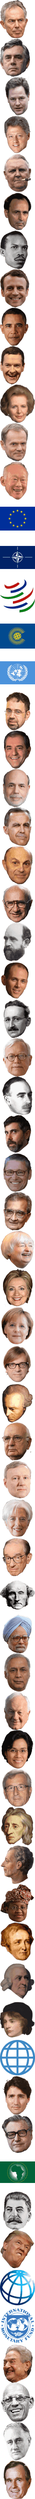
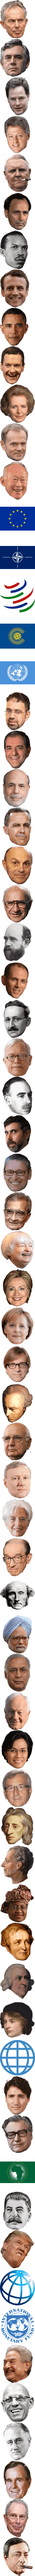
Add Bloomberg + Draghi Flairs

diff --git a/_flair.scss b/_flair.scss
@@ -78,7 +78,9 @@ $image-flairs:
 	soros,
 	foucault,
 	fdr,
-	bush
+	bush,
+	bloomberg,
+	draghi
 ;
 
 $icon-flairs:
